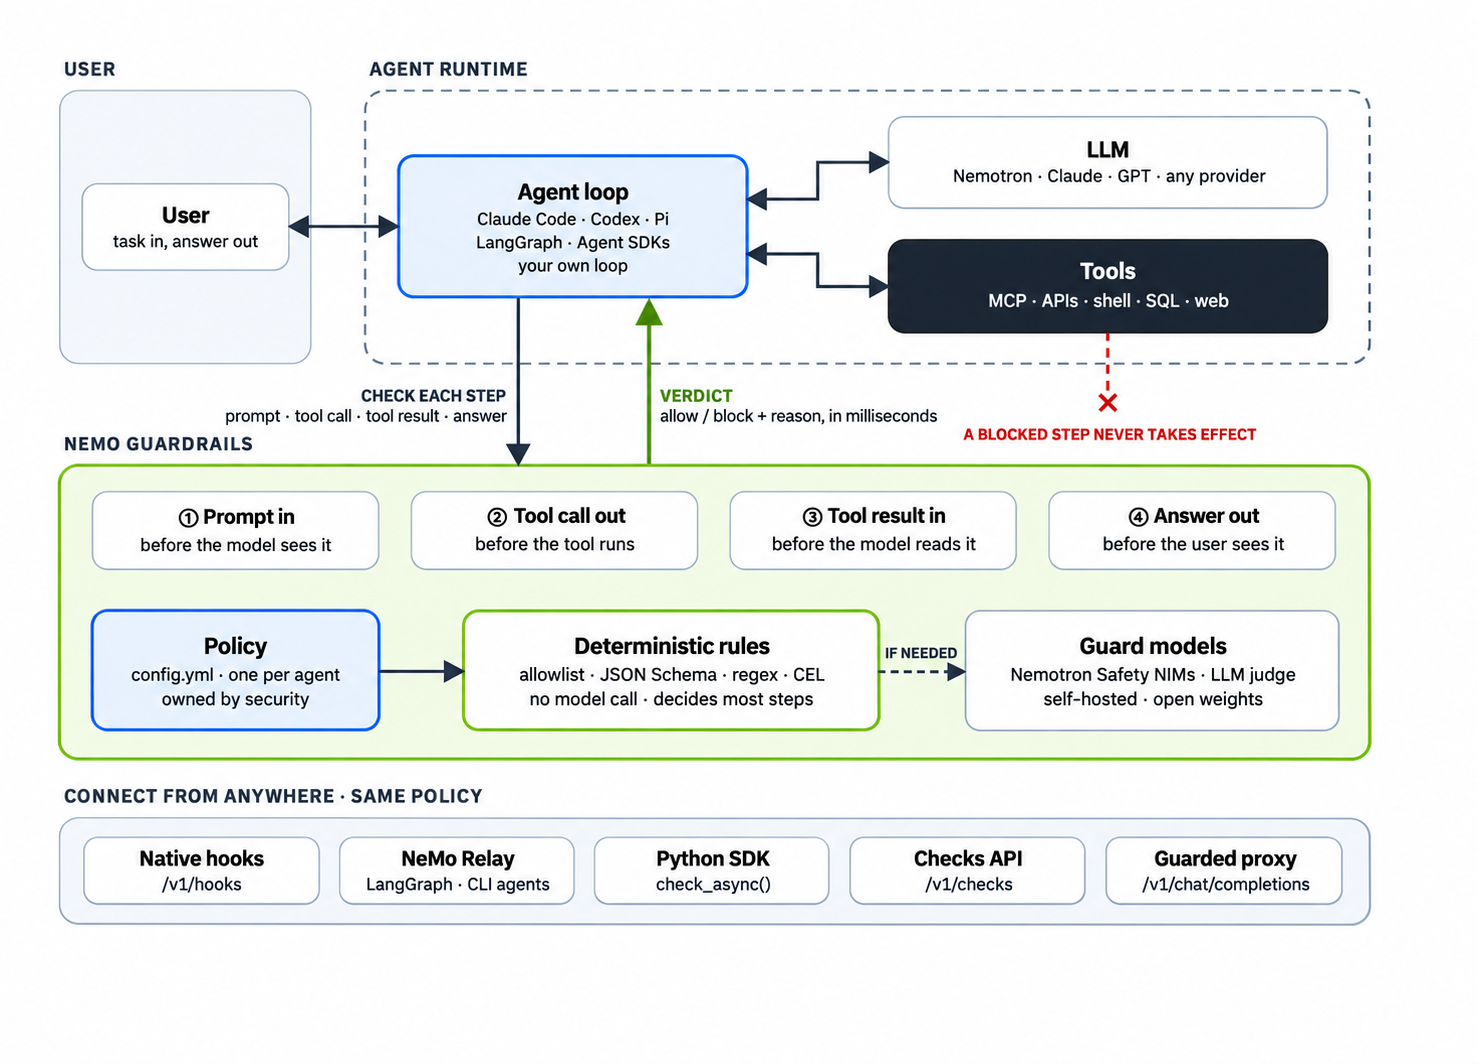
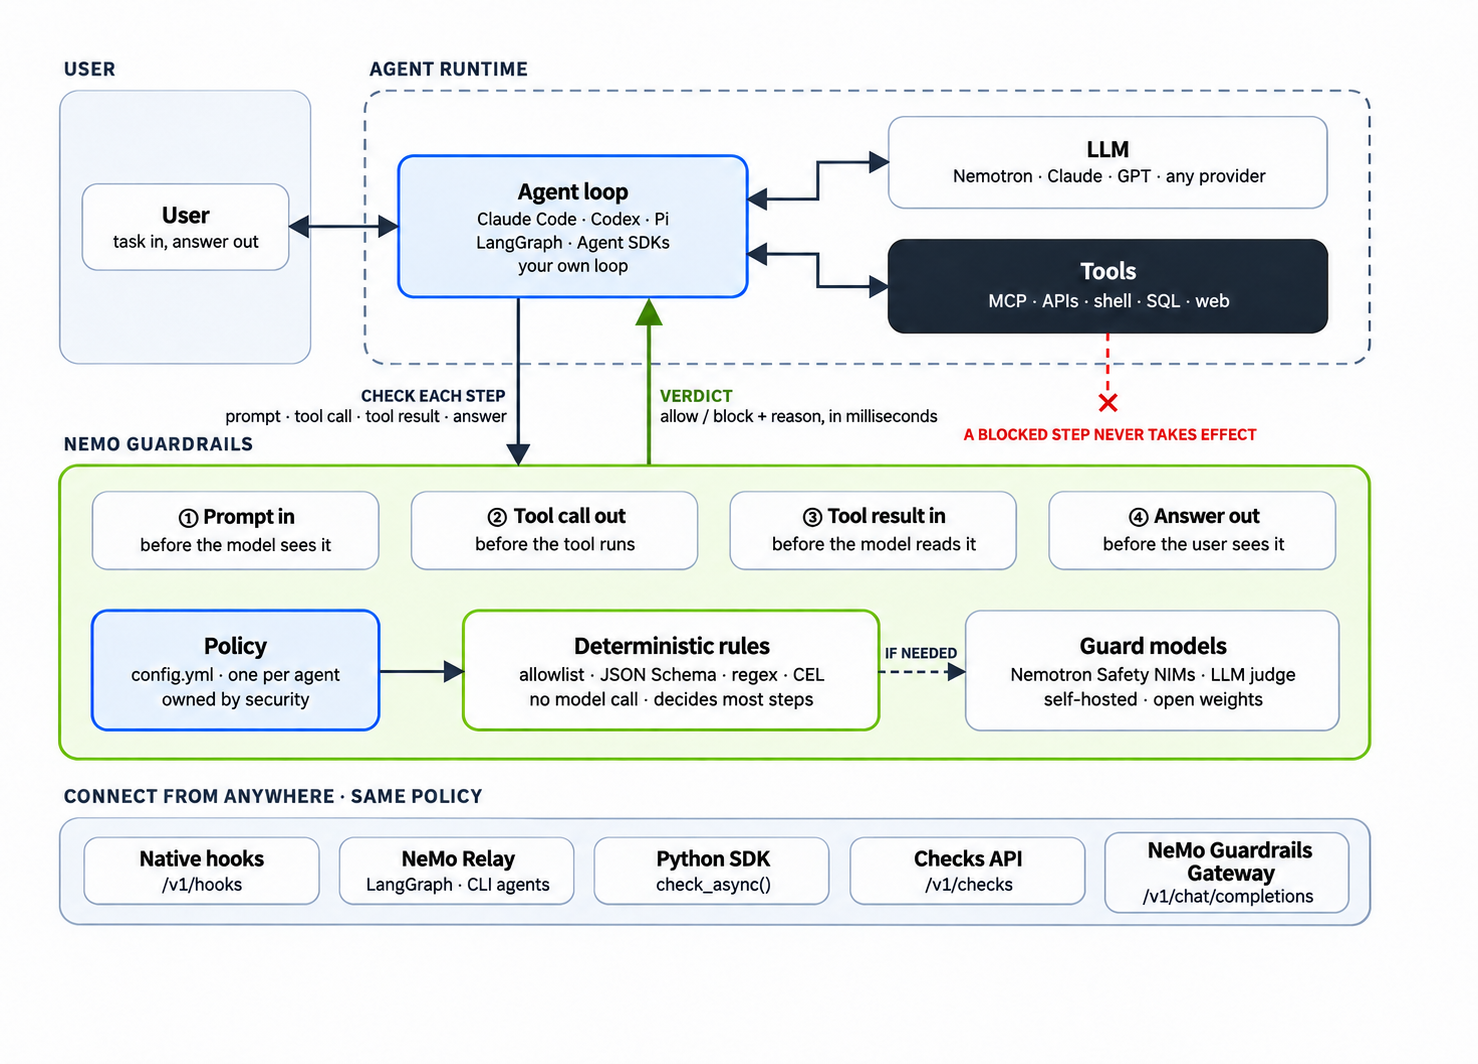
docs: address Gateway naming and entry-point review feedback

diff --git a/README.md b/README.md
@@ -13,7 +13,9 @@
 
 [Documentation](https://docs.nvidia.com/nemo/guardrails/latest/about-nemo-guardrails-library/overview) · [Quickstart](#quickstart) · [Use cases](#what-you-can-build) · [Integrations](#choose-your-integration) · [Guardrail catalog](#guardrail-catalog) · [Examples](./examples) · [Community](#community-usage) · [Security](./SECURITY.md) · [Releases](https://github.com/NVIDIA-NeMo/Guardrails/releases) · [Changelog](./CHANGELOG.md)
 
-NeMo Guardrails adds programmable safeguards to your AI agents. Agents run commands, call APIs, query your data, and read the web. You use the NeMo Guardrails library to declare what each agent may do in a policy, combining low-latency local rules with model-backed checks for jailbreaks, injected instructions, and unsafe tool calls. Your application or agent harness runs these checks and uses their results to decide whether to continue.
+NeMo Guardrails adds programmable safeguards to AI agents, conversational applications, and retrieval-augmented generation (RAG) systems. Agents run commands, call APIs, query your data, and read the web. Conversational applications apply input and output checks; RAG systems filter retrieved content and check answers against evidence.
+
+You use the NeMo Guardrails library to declare what each agent may do in a policy, combining low-latency local rules with model-backed checks for jailbreaks, injected instructions, and unsafe tool calls. Your application or agent harness runs these checks and uses their results to decide whether to continue.
 
 ```bash
 pip install nemoguardrails
@@ -155,7 +157,7 @@ Connect NeMo Guardrails where your application or agent can enforce its checks.
 | What are you building? | How to connect |
 | --- | --- |
 | **A shared guardrails service** for multiple applications or teams | Use the [Checks API](./docs/run-rails/using-fastapi-server/overview.mdx) (`/v1/checks`) to request verdicts while each application manages its model and execution loop. |
-| **An inference gateway** in front of model endpoints | Use the [experimental proxy](./docs/run-rails/using-proxy/quickstart.mdx) to check supported model requests and responses. |
+| **An inference gateway** in front of model endpoints | Use [NeMo Guardrails Gateway](./docs/run-rails/using-proxy/quickstart.mdx) to check supported model requests and responses. |
 | **A coding assistant or agent harness** | Use [native hooks](./docs/run-rails/using-hooks-server/run-hooks-server.mdx) or [NeMo Relay](./docs/run-rails/using-hooks-server/nemo-relay-plugin.mdx) to check tool calls before execution. |
 | **An agent platform, framework integration, or custom loop** | Embed the [Python SDK](./docs/run-rails/using-python-apis/check-messages.mdx), call the [Checks API](./docs/run-rails/using-fastapi-server/overview.mdx), or use a supported [framework integration](./docs/integration/langchain/langgraph-integration.mdx). |
 
@@ -202,6 +204,8 @@ Session counts are estimates, and a session can use multiple rail types or featu
 ## Telemetry and Privacy
 
 The library sends anonymous usage telemetry that excludes prompts, completions, model names, credentials, and endpoints. Set `NEMO_GUARDRAILS_NO_USAGE_STATS=1` to opt out. This does not disable configured model or guardrail service calls, which can send content to those endpoints. Refer to [telemetry and privacy](./docs/telemetry.mdx) for details and other opt-out options.
+
+Third-party endpoints have separate terms and privacy practices. The NVIDIA NeMo Guardrails library can use inference endpoints such as NVIDIA Build (`build.nvidia.com`). If you use NVIDIA Build or another third-party endpoint, that endpoint's terms of service and privacy practices apply independently of the library. Any telemetry opt-out in the NVIDIA NeMo Guardrails library does not extend to the endpoint you choose. NVIDIA Build is intended for evaluation and testing only and must not be used in production environments. Do not submit confidential information or personal data when using NVIDIA Build.
 
 ## Contributing and Support
 
